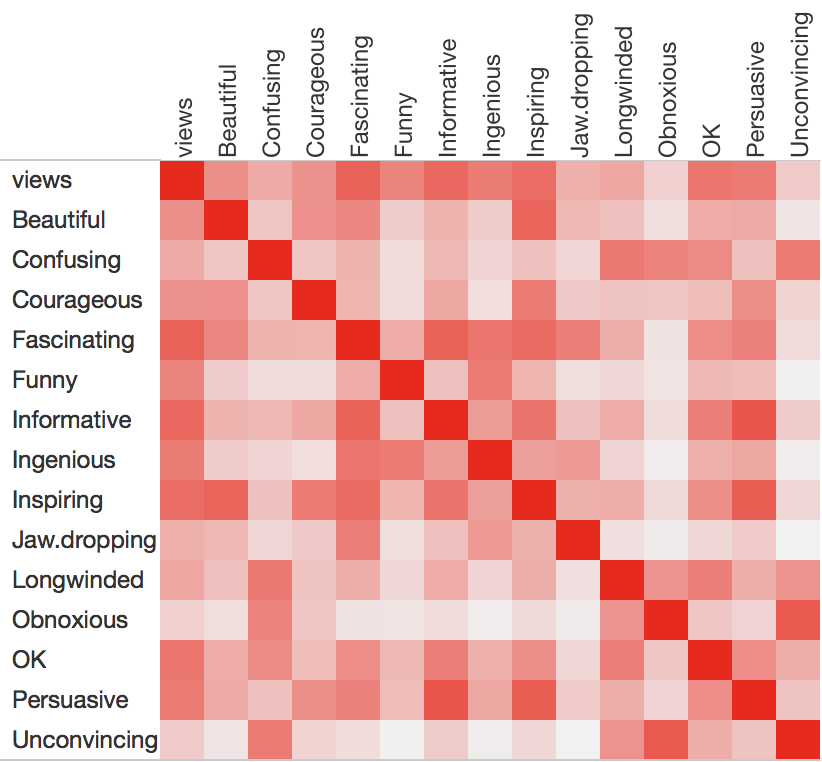
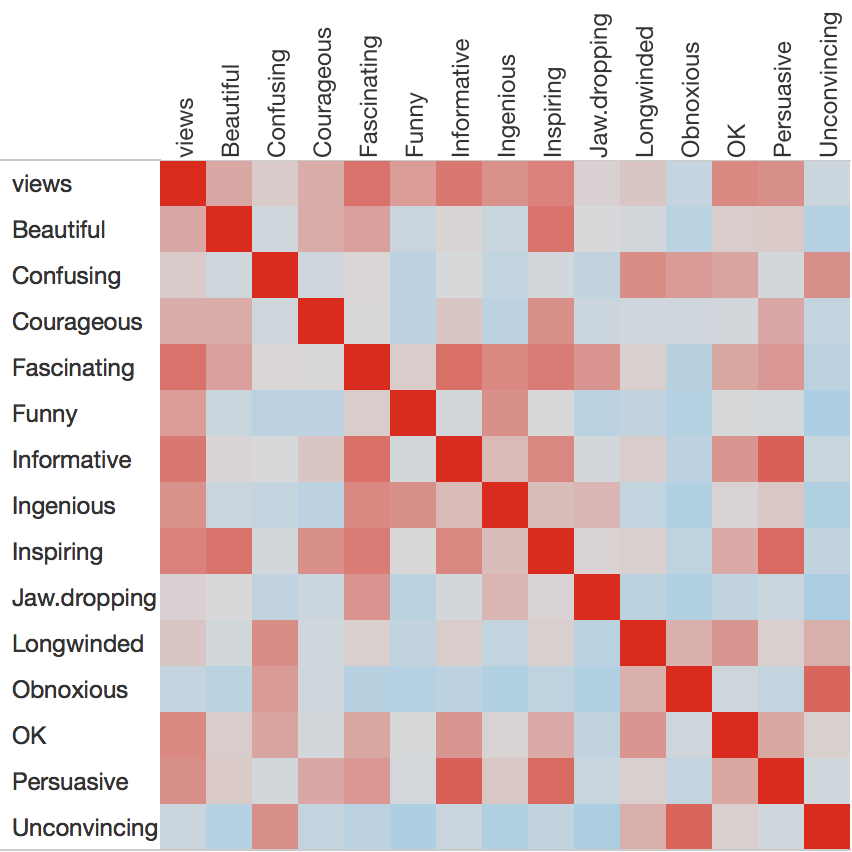
add video and changed heatmap

diff --git a/index.html b/index.html
@@ -43,8 +43,10 @@
              <p>Which style can best characterize TED Talk?</p>
 
 
-             <div class="six columns offset-by-one">
-             <img src="img/example.png" class= "example" alt="rate-example" height="500px">
+             <div class="row">
+                    <div class="video-container">
+                            <iframe src="https://embed.ted.com/talks/james_veitch_this_is_what_happens_when_you_reply_to_spam_email" width="854" height="480"> </iframe>
+                     <img src="img/example.png" class= "example" alt="rate-example" height="280px" display="inline-blcok">   
             </div>
         </div>
     </div>
@@ -97,7 +99,7 @@
                 <p> Talks with a higher votes on Inspiring, Fascinating, and Informative tend to have a higher number of views, while talks which rated higher on Confusing, Jaw-dropping and Funny don't necessarily guarantee a higher views.</p>
             </div>
             <div class="six columns offset-by-four">
-                    <img src="img/cor.png" class= "heatmap" alt="bar-sum" height="500px">
+                    <img src="img/cor.png" class= "heatmap" alt="heatmap" height="500px">
             </div>
 
     </div>

diff --git a/css/style.css b/css/style.css
@@ -181,3 +181,4 @@ text {
     padding-left: 5%;
     align-items: center;
 }
+
